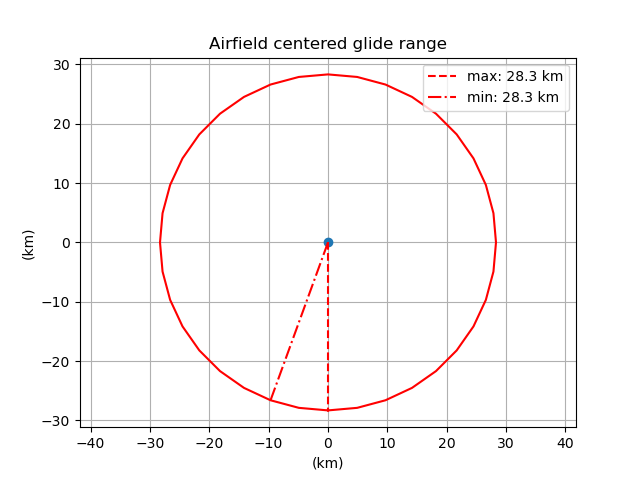
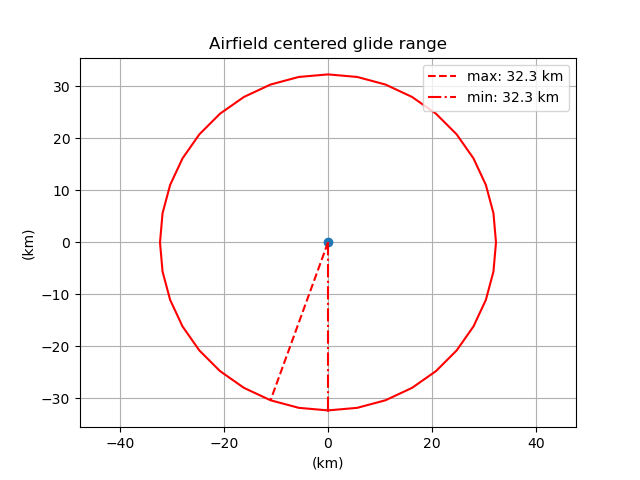
Duo Discus XL, drag polar GR point drawing and colors specified in scenario

diff --git a/results/map.html b/results/map.html
@@ -37,8 +37,8 @@
         };
 
         new google.maps.Marker({
-            position: new google.maps.LatLng(61.542455, 22.528072),
-            title: "Min distance 28.3 km, HDG 20 degT",
+            position: new google.maps.LatLng(61.491246, 22.710170),
+            title: "Min distance 32.3 km, HDG 0 degT",
             icon: marker_icon_FF0000,
             map: map
         });
@@ -121,43 +121,43 @@
             strokeWeight: 2,
             map: map,
             path: [
-                new google.maps.LatLng(61.527252, 22.710170),
-                new google.maps.LatLng(61.531081, 22.617750),
-                new google.maps.LatLng(61.542455, 22.528072),
-                new google.maps.LatLng(61.561034, 22.443801),
-                new google.maps.LatLng(61.586268, 22.367453),
-                new google.maps.LatLng(61.617405, 22.301325),
-                new google.maps.LatLng(61.653514, 22.247425),
-                new google.maps.LatLng(61.693514, 22.207411),
-                new google.maps.LatLng(61.736202, 22.182544),
-                new google.maps.LatLng(61.780290, 22.173638),
-                new google.maps.LatLng(61.824440, 22.181030),
-                new google.maps.LatLng(61.867309, 22.204566),
-                new google.maps.LatLng(61.907587, 22.243591),
-                new google.maps.LatLng(61.944037, 22.296965),
-                new google.maps.LatLng(61.975536, 22.363093),
-                new google.maps.LatLng(62.001110, 22.439966),
-                new google.maps.LatLng(62.019968, 22.525226),
-                new google.maps.LatLng(62.031522, 22.616236),
-                new google.maps.LatLng(62.035414, 22.710170),
-                new google.maps.LatLng(62.031522, 22.804104),
-                new google.maps.LatLng(62.019968, 22.895114),
-                new google.maps.LatLng(62.001110, 22.980374),
-                new google.maps.LatLng(61.975536, 23.057247),
-                new google.maps.LatLng(61.944037, 23.123375),
-                new google.maps.LatLng(61.907587, 23.176749),
-                new google.maps.LatLng(61.867309, 23.215774),
-                new google.maps.LatLng(61.824440, 23.239310),
-                new google.maps.LatLng(61.780290, 23.246702),
-                new google.maps.LatLng(61.736202, 23.237796),
-                new google.maps.LatLng(61.693514, 23.212929),
-                new google.maps.LatLng(61.653514, 23.172915),
-                new google.maps.LatLng(61.617405, 23.119015),
-                new google.maps.LatLng(61.586268, 23.052887),
-                new google.maps.LatLng(61.561034, 22.976539),
-                new google.maps.LatLng(61.542455, 22.892268),
-                new google.maps.LatLng(61.531081, 22.802590),
-                new google.maps.LatLng(61.527252, 22.710170),
+                new google.maps.LatLng(61.491246, 22.710170),
+                new google.maps.LatLng(61.495612, 22.604774),
+                new google.maps.LatLng(61.508583, 22.502493),
+                new google.maps.LatLng(61.529773, 22.406359),
+                new google.maps.LatLng(61.558556, 22.319236),
+                new google.maps.LatLng(61.594076, 22.243739),
+                new google.maps.LatLng(61.635275, 22.182160),
+                new google.maps.LatLng(61.680920, 22.136398),
+                new google.maps.LatLng(61.729642, 22.107901),
+                new google.maps.LatLng(61.779972, 22.097611),
+                new google.maps.LatLng(61.830383, 22.105928),
+                new google.maps.LatLng(61.879341, 22.132689),
+                new google.maps.LatLng(61.925348, 22.177162),
+                new google.maps.LatLng(61.966991, 22.238055),
+                new google.maps.LatLng(62.002983, 22.313553),
+                new google.maps.LatLng(62.032210, 22.401361),
+                new google.maps.LatLng(62.053763, 22.498783),
+                new google.maps.LatLng(62.066969, 22.602800),
+                new google.maps.LatLng(62.071418, 22.710170),
+                new google.maps.LatLng(62.066969, 22.817540),
+                new google.maps.LatLng(62.053763, 22.921557),
+                new google.maps.LatLng(62.032210, 23.018979),
+                new google.maps.LatLng(62.002983, 23.106787),
+                new google.maps.LatLng(61.966991, 23.182285),
+                new google.maps.LatLng(61.925348, 23.243178),
+                new google.maps.LatLng(61.879341, 23.287651),
+                new google.maps.LatLng(61.830383, 23.314412),
+                new google.maps.LatLng(61.779972, 23.322729),
+                new google.maps.LatLng(61.729642, 23.312439),
+                new google.maps.LatLng(61.680920, 23.283942),
+                new google.maps.LatLng(61.635275, 23.238180),
+                new google.maps.LatLng(61.594076, 23.176601),
+                new google.maps.LatLng(61.558556, 23.101104),
+                new google.maps.LatLng(61.529773, 23.013981),
+                new google.maps.LatLng(61.508583, 22.917847),
+                new google.maps.LatLng(61.495612, 22.815566),
+                new google.maps.LatLng(61.491246, 22.710170),
             ]
         });
 
@@ -170,7 +170,7 @@
             map: map,
             path: [
                 new google.maps.LatLng(61.781338, 22.710170),
-                new google.maps.LatLng(61.542455, 22.528072),
+                new google.maps.LatLng(61.491246, 22.710170),
             ]
         });
 

diff --git a/glide_range.py b/glide_range.py
@@ -62,8 +62,11 @@ GUI(scenarios)    # store GUI inout in scenario dict (global)
 
 # ------------------------------------- CREATING GLIDERS --------------------------------------
 glider_filenames = []
+color_list = []
+
 for ID in scenarios:
   glider_filenames.append(scenarios[ID].glider_file)
+  color_list.append(scenarios[ID].color)
 
 # Create a dict of gliders
 gliders_dict = {}
@@ -92,7 +95,7 @@ for file_name in glider_filenames:
   gliders_dict[file_name] = glider        #use filename as key
 
 # plot drag polar for every selected glider
-plotDragPolars(gliders_dict)
+plotDragPolars(gliders_dict, color_list)
 # -------------------------------- END OF CREATING GLIDERS -------------------------------------
 
 
@@ -305,17 +308,16 @@ gmap.draw('results/map.html')
 
 
 # ------------------------- OPTIMAL FLIGHT TO GIVEN TRACK DIRECTION ---------------------------
+
 number = 0  # optimum flight calculation for fist scenario
-
 selected_glider = gliders_dict[scenarios[number].glider_file]
-
 track_HDG = 0
 
-vv_airmass_list = np.linspace(0,-3, 50)
+vv_airmass_list = np.linspace(0,-2, 50)
 airspeed_list = np.linspace(70, 180, 500)       #km/h
 
 # Initialize figure
-figure, figure_ax = plt.subplots()
+figure_1, figure_1_ax = plt.subplots()
 
 best_GR_AS_VV_list = []
 
@@ -346,7 +348,7 @@ for vv_airmass in vv_airmass_list:
   best_GR_AS_VV_list.append([vv_airmass, best_GR, best_speed, best_total_VV])
 
   legend = "VV = {:.1f} m/s".format(vv_airmass)
-  figure_ax = plotPoints(figure_ax, airspeed_list, glide_ratio_list, "AS (km/h)", "GR", legend)
+  figure_1_ax = plotPoints(figure_1_ax, airspeed_list, glide_ratio_list, "AS (km/h)", "GR", legend)
 
 best_VV = []
 best_GR = []
@@ -358,25 +360,16 @@ for list in best_GR_AS_VV_list:
   best_AS.append(list[2])
   best_VV_tot.append(list[3])
 
-figure_ax = plotPoints(figure_ax, best_AS, best_GR, "AS (km/h)", "GR", "max")
-
+figure_1_ax = plotPoints(figure_1_ax, best_AS, best_GR, "AS (km/h)", "GR", "max")
 
 # Initialize figure
-figure2, figure2_ax = plt.subplots(4,1)
+figure_2, figure2_ax = plt.subplots(1,3)
 figure2_ax = plotOptimalFlightValues(figure2_ax, best_AS, best_VV, best_GR, best_VV_tot)
-
-
 
 plt.show()  # Show lar figure
 # Save the plot as a PNG file
-figure.savefig('results/optimum_speed_vs_VV.png')
-
-
-
-
-
-
-
+figure_1.savefig('results/optimum_flight_values.png')
+figure_2.savefig('results/optimum_speed_vs_VV.png')
 
 
 # -------------------- END OF  OPTIMAL FLIGHT TO GIVEN TRACK DIRECTION ------------------------

diff --git a/functions.py b/functions.py
@@ -132,27 +132,45 @@ def plotPoints(ax, x_points, y_points,x_label, y_label, legend):
 
     return ax
 
-def plotDragPolars(gliders):
+def find_best_glide_ratio(AS_list, VV_list):
+    best_GR = 0
+    for i in range(len(AS_list)):
+        GR = AS_list[i]/VV_list[i]/3.6
+        if GR > best_GR:
+            best_GR = GR
+            best_AS = AS_list[i]
+            best_VV = VV_list[i]
+    return best_AS, best_VV, best_GR
+
+def plotDragPolars(gliders, colors):
     """
     Plot drag polars of input glider list.
 
     Args:
         Dictonary of gliders.
     """
-    plt.figure(figsize=(8, 6))  # Adjust the figure size if needed
+    plt.figure()  # Adjust the figure size if needed
+    color_i = 0
     for name in gliders:
-        plt.plot(gliders[name].drag_polar_AS, gliders[name].drag_polar_VV, label=gliders[name].name)
+        plt.plot(gliders[name].drag_polar_AS, gliders[name].drag_polar_VV, label=gliders[name].name, color=colors[color_i])
         # speeds = np.linspace(0, 300, 300)
         # VV = []
         # for speed in speeds:
         #     VV.append(gliders[name].sinkAtAirspeed(speed))
         # plt.plot(speeds, VV, label=gliders[name].name)  
 
+        AS, VV, GR = find_best_glide_ratio(gliders[name].drag_polar_AS, gliders[name].drag_polar_VV)
+        plt.plot([0, 1.5*AS], [0, 1.5*VV], '--', color=colors[color_i])
+        plt.plot([AS, AS], [5.0, VV], '--', color=colors[color_i])
+
+        color_i += 1
+
     plt.title('Drag polar')
     plt.xlabel('Airspeed (km/h)')
     plt.ylabel('Sink rate (m/s)')
     plt.legend(loc='upper right')
     plt.ylim(0, 4)
+    plt.xlim(0, 250)
     plt.gca().invert_yaxis()
     plt.grid(True)
     # Save the plot as a PNG file
@@ -235,13 +253,11 @@ def plotOptimalFlightValues(axs, best_AS, best_VV, best_GR, best_VV_tot):
 
     axs[2].plot(best_AS, best_VV_tot, "-")
     axs[2].set_xlabel('AS (km/h)')
-    axs[2].set_ylabel('airmass VV (m/s)')
+    axs[2].set_ylabel('VV_tot (m/s)')
     axs[2].grid(True)
 
-    axs[3].plot(best_VV_tot, best_GR, "-")
-    axs[3].set_xlabel('VV tot (m/s)')
-    axs[3].set_ylabel('GR')
-    axs[3].grid(True)
+    return axs
+
 
 def draw_arrow(gmap, start_lat, start_lon, direction, wind_speed, radius, name, color='red'):
     radius = wind_speed/10*radius

diff --git a/GUI.py b/GUI.py
@@ -216,11 +216,13 @@ def GUI(scenarios):
     file_button = tk.Button(window, text="Select glider file", command=select_file)
     file_button.grid(row=9, column=0, padx=10, pady=10)
 
+
     # Label to display the selected file
     # file_label = tk.Label(window, text="")
     # file_label.grid(row=9, column=1, padx=10, pady=10)
     file_label_entry = tk.Entry(window)
     file_label_entry.grid(row=9, column=1, padx=10, pady=10)
+    file_label_entry.insert(0, "ASTIR_CS_JEANS_350kg.csv")      #default value
 
     # Create a button to open the color chooser
     choose_color_button = tk.Button(window, text="Choose Color", command=choose_color)
@@ -228,6 +230,8 @@ def GUI(scenarios):
     # Create a label to display the selected color
     selected_color_entry = tk.Entry(window)
     selected_color_entry.grid(row=10, column=1, padx=10, pady=10)
+    selected_color_entry.insert(0, "(255, 0, 0)")      # default value
+    selected_color_entry.config(bg="red")  # Set the background color of the label
 
     # Create scenario
     create_scenario_button = tk.Button(window, text="Create scenario", command=read_input_data)
